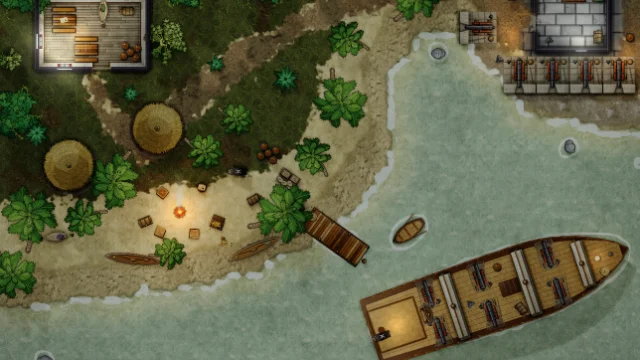
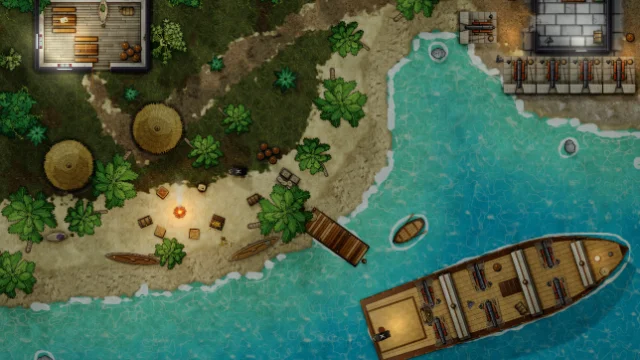
(visual) tropical water absorbs the seabed color and deepens over a longer ramp
water materials can set fundoEm (raso to fundo ramp up to 10 m, with the water bake window following) and absorcao
(a color multiplied over the ground before the bed); agua.tropical is now turquoise over sand and blue in the middle of a bay

diff --git a/src/procedural/materiais.ts b/src/procedural/materiais.ts
@@ -10,7 +10,7 @@ export type Padrao = 'tabuas' | 'xadrez' | 'damasco' | 'listras' | 'veio' | 'tra
 export interface Material {
   id: string; nome: string; /** Para onde o material vai: piso, papel de parede, objeto ou terreno. */ uso: 'piso' | 'papel' | 'objeto' | 'terreno' | 'macico' | 'agua' | 'telhado';
   base: string; escuro: string; claro: string; padrao: Padrao; /** Tapete: qual desenho (1 medalhão, 2 floral, 3 cercaduras, 4 kilim, 5 oval); ausente sorteia pela semente. */ desenho?: number; largura?: number; lado?: number; ouro?: string; borda?: string; meio?: string; /** Maciço: cor do topo (neve), onde a rocha passa de 70% da altura. */ topo?: string; /** Maciço e escarpa: quanto o pé da face escurece e quanto pesa a sombra de contato (0 a 1; ausente vale 1). */ pe?: number;
-  /** Água: cor perto da margem e no fundo, cor da espuma e quanto se enxerga o leito (0 a 1) no fundo. */ raso?: string; fundo?: string; espuma?: string; transparencia?: number; /** Água: rede de luz animada sobre o leito (cáusticas). */ causticas?: boolean; /** Água: quanto de espuma na margem e em volta dos objetos (0 a 1, padrão 1); água parada de gruta quase não tem. */ espumaForca?: number; /** Água: rebentação, cristas de onda brancas que correm para a margem (0 a 1; só o mar). */ ondas?: number;
+  /** Água: cor perto da margem e no fundo, cor da espuma e quanto se enxerga o leito (0 a 1) no fundo. */ raso?: string; fundo?: string; espuma?: string; transparencia?: number; /** Água: rede de luz animada sobre o leito (cáusticas). */ causticas?: boolean; /** Água clara: distância à margem (m) em que a cor chega a `fundo` e a água fica opaca (padrão 3; até `PROFUNDIDADE_DO_LEITO_MAXIMA`). */ fundoEm?: number; /** Água clara: cor que a água absorve do leito (multiplica o chão de baixo antes do tingido), como a areia que fica turquesa debaixo d'água. */ absorcao?: string; /** Água: quanto de espuma na margem e em volta dos objetos (0 a 1, padrão 1); água parada de gruta quase não tem. */ espumaForca?: number; /** Água: rebentação, cristas de onda brancas que correm para a margem (0 a 1; só o mar). */ ondas?: number;
   /** Água, maciço, piso ou papel que brilha: quanto emite acima da luz da cena (0 a 1). No maciço são os veios (`veio`); no piso e no papel, as partes claras do desenho (o néon). */ brilho?: number; /** Água: desenha lava (crosta com fendas acesas, sem ondas nem espuma). */ lava?: boolean; /** Maciço com `brilho`: a cor dos veios. */ veio?: string;
   /** Terreno: quanto a borda da camada se desfaz em manchas (0 a 1; ausente = borda comum). Chão batido e folhiço se misturam com o vizinho. */ franja?: number;
   /** Terreno (Ilustrado): textura CC0 puxada para a paleta; o `padrao` continua como reserva e é o que o Pixel usa. */ textura?: ReceitaDeTextura;
@@ -209,7 +209,8 @@ export const MATERIAIS: Readonly<Record<string, Material>> = Object.fromEntries(
   m('agua.gruta', 'Água de gruta', 'agua', '#2aa8a0', '#0c4a52', '#9af0e0', 'liso', { raso: '#58d0c0', fundo: '#106068', espuma: '#d8fff4', transparencia: 0.85, causticas: true, espumaForca: 0.12 }),
   m('agua.pantano', 'Pântano', 'agua', '#5a6a38', '#222a14', '#98a468', 'liso', { raso: '#7a8444', fundo: '#2c3418', espuma: '#c4c88c', transparencia: 0.2 }),
   m('agua.arrozal', 'Arrozal alagado', 'agua', '#6a7448', '#2e3420', '#9aa070', 'liso', { raso: '#8a8a58', fundo: '#4a5030', espuma: '#d4d4b0', transparencia: 0.35, espumaForca: 0.2 }),
-  m('agua.tropical', 'Água tropical', 'agua', '#3ab8b8', '#14607a', '#9af0e8', 'liso', { raso: '#5ad6c8', fundo: '#1a7894', espuma: '#f4fffc', transparencia: 0.62, causticas: true, ondas: 0.4 }),
+  // Água tropical: clara no raso (a areia aparece, turquesa, porque a água absorve o vermelho) e azul-turquesa funda a partir de uns 9 m da margem.
+  m('agua.tropical', 'Água tropical', 'agua', '#3ab8b8', '#14607a', '#9af0e8', 'liso', { raso: '#48d0c8', fundo: '#0e6a8e', espuma: '#f4fffc', transparencia: 0.1, causticas: true, ondas: 0.4, fundoEm: 9, absorcao: '#5ad8f0' }),
   m('agua.acida', 'Água ácida', 'agua', '#6ac83a', '#2a5a14', '#c8ff8a', 'liso', { raso: '#8ae04a', fundo: '#2e6a18', espuma: '#d8ff9a', transparencia: 0.3, espumaForca: 0.2, brilho: 0.35 }),
   m('agua.esgoto', 'Esgoto', 'agua', '#4e4c36', '#24231a', '#7a7656', 'liso', { raso: '#5e5a40', fundo: '#2a281c', espuma: '#8a8468', transparencia: 0.05, espumaForca: 0.12 }),
   m('agua.lava', 'Lava', 'agua', '#c8461a', '#2a1610', '#ffb050', 'liso', { raso: '#ff8a2a', fundo: '#b8300c', espuma: '#ffd27a', transparencia: 0, espumaForca: 0, brilho: 1, lava: true }),

diff --git a/src/procedural/agua.ts b/src/procedural/agua.ts
@@ -1,6 +1,6 @@
 import type { Material } from './materiais.ts';
 import { fbm, hash2D, valueNoise2D } from './ruido.ts';
-import { PROFUNDIDADE_MAXIMA, distanciaAMargem } from './profundidade.ts';
+import { PROFUNDIDADE_DO_LEITO_MAXIMA, PROFUNDIDADE_MAXIMA, distanciaAMargem } from './profundidade.ts';
 
 /** Largura (m) da faixa de areia molhada que escurece o chão em volta da água. */
 export const MARGEM_MOLHADA = 0.3;
@@ -31,6 +31,8 @@ export interface SaidaDaAgua {
   leito: Uint8ClampedArray;
   /** RGBA da faixa de areia molhada em volta da água. */
   margem: Uint8ClampedArray;
+  /** Só em água clara (`material.absorcao`, Ilustrado): RGBA que multiplica o chão de baixo antes do leito (a cor que a água tira dele). */
+  absorcao?: Uint8ClampedArray;
   /** Distância à margem em metros, saturada (0 fora da água). */
   profundidade: Float32Array;
   /** Só em água que brilha (`material.brilho`): quanto cada pixel emite (0 a 1); na lava, também no clarão em volta. */
@@ -108,6 +110,10 @@ export function leitoDaAgua(e: EntradaDaAgua): SaidaDaAgua {
   const { binaria, cobertura, largura: W, altura: H, res, pixel } = e, [ox, oy] = e.origemPx ?? [0, 0], n = W * H;
   const cores = coresDaAgua(e.material), profundidade = distanciaAMargem(binaria, W, H, res, PROFUNDIDADE_MAXIMA);
   if (e.material.lava) return leitoDeLava(e, profundidade);
+  // Água clara: a cor vai de raso a fundo numa rampa mais longa (`fundoEm`), e a água absorve do leito a cor de `absorcao`.
+  const fundoEm = Math.min(PROFUNDIDADE_DO_LEITO_MAXIMA, Math.max(PROFUNDIDADE_MAXIMA, e.material.fundoEm ?? PROFUNDIDADE_MAXIMA));
+  const rampa = fundoEm > PROFUNDIDADE_MAXIMA && !pixel ? distanciaAMargem(binaria, W, H, res, fundoEm) : profundidade;
+  const absorve = e.material.absorcao && !pixel ? rgb(e.material.absorcao) : null, absorcao = absorve ? new Uint8ClampedArray(n * 4) : undefined;
   const terra = new Uint8Array(n); for (let i = 0; i < n; i++) terra[i] = binaria[i] ? 0 : 1;
   const aFora = distanciaAMargem(terra, W, H, res, MARGEM_MOLHADA + 1 / res);
   const leito = new Uint8ClampedArray(n * 4), margem = new Uint8ClampedArray(n * 4), ruido = valueNoise2D(7000 + e.seed), ruidoFundo = valueNoise2D(7100 + e.seed);
@@ -121,7 +127,9 @@ export function leitoDaAgua(e: EntradaDaAgua): SaidaDaAgua {
         if (faixa === 0 && (((ox + x) + (oy + y)) & 1)) continue;                        // o raso é vazado em xadrez: o leito aparece por entre os pixels
         leito[k] = cores.raso[0] + (cores.fundo[0] - cores.raso[0]) * t; leito[k + 1] = cores.raso[1] + (cores.fundo[1] - cores.raso[1]) * t; leito[k + 2] = cores.raso[2] + (cores.fundo[2] - cores.raso[2]) * t; leito[k + 3] = 255;
       } else {
-        const t = suave(0, PROFUNDIDADE_MAXIMA, d), a = ((cobertura ? cobertura[i]! / 255 : 1)) * (0.14 + (opaco - 0.14) * t);
+        const dr = rampa === profundidade ? d : Math.max(0, rampa[i]! + (fbm(ruidoFundo, mx * 0.9, my * 0.9, 2) - 0.5) * 0.7 * (fundoEm / PROFUNDIDADE_MAXIMA));
+        const t = suave(0, fundoEm, dr), cob = cobertura ? cobertura[i]! / 255 : 1, a = cob * (0.14 + (opaco - 0.14) * t);
+        if (absorve && absorcao) { absorcao[k] = absorve[0]; absorcao[k + 1] = absorve[1]; absorcao[k + 2] = absorve[2]; absorcao[k + 3] = cob * 255; }
         leito[k] = cores.raso[0] + (cores.fundo[0] - cores.raso[0]) * t; leito[k + 1] = cores.raso[1] + (cores.fundo[1] - cores.raso[1]) * t; leito[k + 2] = cores.raso[2] + (cores.fundo[2] - cores.raso[2]) * t; leito[k + 3] = a * 255;
       }
     } else if (aFora[i]! > 0 && aFora[i]! <= MARGEM_MOLHADA + 1e-6) {
@@ -134,9 +142,9 @@ export function leitoDaAgua(e: EntradaDaAgua): SaidaDaAgua {
   if (e.material.brilho) {
     const calor = new Float32Array(n), forca = Math.min(1, Math.max(0, e.material.brilho));
     for (let i = 0; i < n; i++) if (binaria[i]) calor[i] = forca * (0.35 + 0.65 * suave(0, PROFUNDIDADE_MAXIMA, profundidade[i]!)) * (leito[i * 4 + 3]! / 255);
-    return { leito, margem, profundidade, calor };
+    return { leito, margem, profundidade, calor, ...(absorcao ? { absorcao } : {}) };
   }
-  return { leito, margem, profundidade };
+  return { leito, margem, profundidade, ...(absorcao ? { absorcao } : {}) };
 }
 
 /** Quantas camadas de água distintas a superfície sabe animar (cada uma com a sua correnteza). */

diff --git a/src/procedural/assar.ts b/src/procedural/assar.ts
@@ -29,7 +29,7 @@ import { orientacaoDominante } from './orientacao.ts';
 import { descreverReceita, receitaDe } from './receitas/index.ts';
 import { fatorDeProfundidade } from '../domain/relevo.ts';
 import { ladoBaixo } from './escarpa.ts';
-import { PROFUNDIDADE_MAXIMA, distanciaAMargem } from './profundidade.ts';
+import { PROFUNDIDADE_DO_LEITO_MAXIMA, PROFUNDIDADE_MAXIMA, distanciaAMargem } from './profundidade.ts';
 
 export interface Assado {
   tela: Tela;
@@ -223,7 +223,7 @@ export const MARGEM_ASSENTAMENTO = 2;
 /** Margens (m) das camadas de terreno por uso do material, compartilhadas entre `ladrilhosDoTerreno` e `assarTerreno`. */
 export function margensDoTerreno(res: number): { base: number; agua: number; macico: number } {
   const base = Math.max(1.5, RAIO_PASSA_ALTA, 1 / Math.max(1e-6, res)) + 1;
-  const agua = base + PROFUNDIDADE_MAXIMA;
+  const agua = base + Math.max(PROFUNDIDADE_MAXIMA, PROFUNDIDADE_DO_LEITO_MAXIMA);
   const macico = Math.max(base + Math.max(PROFUNDIDADE_MAXIMA, SOMBRA_DE_CONTATO + 0.15), 10);
   return { base, agua, macico };
 }
@@ -523,7 +523,10 @@ export function assarTerreno(e: EntradaDeTerreno, res: number, estilo: EstiloDeR
       // Água: o que está embaixo continua à vista e ganha a cor do leito pela profundidade; a margem é uma faixa de areia molhada.
       const r = leitoDaAgua({ binaria, cobertura: pixel ? null : cobertura, largura: cw, altura: ch, res, seed: 13 + idx * 5, material, pixel, origemPx: [x0, y0] });
       const poe = (dados: Uint8ClampedArray) => { const t = criarTela(cw, ch), c = contextoDe(t); c.putImageData(new ImageData(dados as Uint8ClampedArray<ArrayBuffer>, cw, ch), 0, 0); ctx.drawImage(t as CanvasImageSource, dx, dy); };
-      ctx.setTransform(1, 0, 0, 1, 0, 0); poe(r.margem); poe(r.leito); resetTransform(ctx);
+      ctx.setTransform(1, 0, 0, 1, 0, 0); poe(r.margem);
+      // Água clara: primeiro a absorção multiplica o chão de baixo (a areia fica turquesa, não cinza), depois o leito tinge por cima.
+      if (r.absorcao) { const antes = ctx.globalCompositeOperation; ctx.globalCompositeOperation = 'multiply'; poe(r.absorcao); ctx.globalCompositeOperation = antes; }
+      poe(r.leito); resetTransform(ctx);
       if (actx) {
         const aguaAlt = new Uint8ClampedArray(cw * ch * 4);
         const pisoByte = Math.round(PISO_NO_MAPA * 255);

diff --git a/tests/unit/agua.test.ts b/tests/unit/agua.test.ts
@@ -156,3 +156,16 @@ test('água que baixa: a primeira etapa é a mais distante do centro e a união 
   const chave = (e: readonly (readonly [number, number])[][]) => new Set(e.flat().map(c => c.join(',')));
   assert.deepEqual(chave(baixa), chave(sobe));
 });
+
+test('água tropical: absorve a cor do leito no raso e só fica opaca longe da margem (rampa longa); o lago não muda', () => {
+  const RES2 = 2, lado = 24, margem = 2, W = (lado + 2 * margem) * RES2, binaria = new Uint8Array(W * W);
+  for (let y = 0; y < W; y++) for (let x = 0; x < W; x++) binaria[y * W + x] = x >= margem * RES2 && x < (margem + lado) * RES2 && y >= margem * RES2 && y < (margem + lado) * RES2 ? 1 : 0;
+  const entrada = (id: string, pixel = false) => leitoDaAgua({ binaria, cobertura: pixel ? null : binaria.map(v => v * 255), largura: W, altura: W, res: RES2, seed: 1, material: materialDe(id), pixel });
+  const tropical = entrada('agua.tropical'), alfa = (s: ReturnType<typeof entrada>, xm: number) => s.leito[((W / 2) * W + Math.round(xm * RES2)) * 4 + 3]!;
+  assert.ok(tropical.absorcao, 'a tropical devolve a camada de absorção');
+  assert.ok(tropical.absorcao![((W / 2) * W + (margem + 1) * RES2) * 4 + 3]! > 200, 'a absorção cobre a água inteira');
+  // A 4 m da margem ainda se vê o leito; no meio (12 m) a água já é quase opaca.
+  assert.ok(alfa(tropical, margem + 4) < alfa(tropical, margem + 12) - 80, `${alfa(tropical, margem + 4)} × ${alfa(tropical, margem + 12)}`);
+  assert.equal(entrada('agua.lago').absorcao, undefined);
+  assert.equal(entrada('agua.tropical', true).absorcao, undefined, 'o Pixel não multiplica');
+});

diff --git a/src/procedural/profundidade.ts b/src/procedural/profundidade.ts
@@ -1,5 +1,7 @@
 /** Profundidade máxima (m) guardada pela transformada de distância; mais fundo que isso é "fundo". */
 export const PROFUNDIDADE_MAXIMA = 3;
+/** Até onde (m) a cor do leito pode ir de `raso` a `fundo` num material com `fundoEm` (água clara, de rampa longa); a janela do assar cresce junto, para não haver emenda entre ladrilhos. */
+export const PROFUNDIDADE_DO_LEITO_MAXIMA = 10;
 
 /**
  * Distância à margem, em metros, de cada pixel de uma máscara binária (`1` = dentro, `0` = fora), por transformada de distância

diff --git a/docs/plano/epocas-e-cenarios.md b/docs/plano/epocas-e-cenarios.md
@@ -385,7 +385,7 @@ Depende de: Q11, Q13 (coqueiros).
 - ✅ **Q19c — gênero (Sonnet):** tipos `conves` (sem telhado), `cabine-do-capitao`, `porao`, `taverna-do-porto`, `fortim`, `casa-colonial`; conjuntos `enseada` e `tesouro-espalhado`; palavras: convés, cabine, porão, forte, enseada. Commit: `added colonial and pirate genre with rooms and furnishing`
   Nota: cinco tipos novos em `TIPOS_DE_COMODO` (`conves`, `cabine-do-capitao`, `taverna-do-porto`, `fortim`, `casa-colonial`, id igual à função); o `porao` já existia e o gênero só troca o que ele guarda (barris de rum, fardos de açúcar; `VARIACOES_DE_GENERO.colonial` também dá rede de dormir ao quarto, mesa de cartógrafo ao escritório, botica à loja, fardos ao depósito). `conves` e `fortim` entram em `FUNCOES_AO_AR_LIVRE` (nascem sem telhado) e não têm luz interna (`semLuz`); a cabine, a taverna do porto e a casa colonial usam lamparina/vela do gênero, e a mesa de cartógrafo e o oratório já trazem a vela deles. Regras: convés (timão e canhões navais na parede, base do mastro ao centro, barris, rolos de corda, bandeira, luneta e rede nos maiores), cabine (mesa de cartógrafo ao centro com cadeira, baú de tesouro, mapa e luneta sobre a mesa, rede ou cama, estante, globo, moedas), taverna do porto (balcão, barris de rum, mesas de taverna com bancos), fortim (canhões de forte na parede, balas, barris, sino, bandeira, forca só a partir de 36 m²), casa colonial (oratório, mesa com cadeiras, rede, botica a partir de 18 m², baú, aparador). Materiais próprios do gênero (`COLONIAL_POR_FUNCAO`: tábuas de convés, caiado, tijoleira, cantaria no fortim) e três paletas; telhado padrão do gênero é o estilo `casa-colonial` (telha de barro) que já existia. Palavras: `convés`, `fortim`/`fortaleza`/`baluarte` em `POR_NOME`; "cabine" (só nome inteiro ou "cabine do capitão"/"camarote do capitão"), "forte" (só nome inteiro ou "forte de/do/São…"), "taverna do porto/cais/pirata" e "casa colonial/grande" em `FRASES`, para "sala forte", "cofre forte" ou "cabine de teste" não virarem fortim ou cabine. "Porão" já existia. "Enseada" não é cômodo, é exterior: fica só como conjunto `enseada` (e `tesouro-espalhado`), sem palavra de nome. Conjuntos em `CONJUNTOS_EXTERIORES` (agora 18 exteriores, 24 no total). Catálogo da ponte regenerado.
 - ✅ **Q19d — exemplo [Opus]:** "Enseada dos piratas" — navio fundeado, praia de coqueiros e fortim, com água tropical.
-  Nota: `scripts/exemplos/enseada-dos-piratas.ts` (52 × 36 m, 90 objetos, 7 luzes, 2 cômodos), na galeria com miniatura; capturas em `test-results/q19d-dia.png` e `q19d-noite.png` (clima guardado "Noite do saque"). A baía de `agua.tropical` abre para o sudeste, com o `navio` de 22 m e três mastros fundeado no meio; no convés, seis canhões navais nas bordas apontando para fora, o timão diante do castelo de popa, a bandeira na popa, barris e o rolo de corda (o navio antigo deixa o convés livre entre as velas, então o kit cabe em cima dele). Na praia de coqueiros, o acampamento: duas cabanas de palha, a fogueira, o baú aberto com as moedas, outro baú fechado, o mapa sobre um barril, o barril de rum, a bandeira, a rede, as canoas puxadas na areia e os fardos de açúcar; o cais de tábuas com o sino e o bote a caminho da praia. A noroeste, na mata, a taverna do porto; no promontório a nordeste, o fortim tomado (`fortim`), com a bateria de quatro canhões de forte virada para a baía, um no flanco virado para a enseada, o sino, a bandeira e a forca na trilha. Desvios: (1) os telhados estão ocultos, como nos outros exemplos; (2) o convés é o do `navio` antigo, com os objetos do kit por cima, e não um cômodo `conves` (o navio já desenha casco, castelo de popa e velas); (3) o fortim é um cômodo fechado de pedra com a bateria do lado de fora, na borda do promontório. Limite (motor): a `agua.tropical` sai verde-acinzentada, não turquesa: o material tem transparência 0,62 e deixa ver a areia da base sob a luz do dia, e não há profundidade que escureça o meio da baía. O tom certo pede mexer no material ou dar à água uma profundidade pela distância da costa.
+  Nota: `scripts/exemplos/enseada-dos-piratas.ts` (52 × 36 m, 90 objetos, 7 luzes, 2 cômodos), na galeria com miniatura; capturas em `test-results/q19d-dia.png` e `q19d-noite.png` (clima guardado "Noite do saque"). A baía de `agua.tropical` abre para o sudeste, com o `navio` de 22 m e três mastros fundeado no meio; no convés, seis canhões navais nas bordas apontando para fora, o timão diante do castelo de popa, a bandeira na popa, barris e o rolo de corda (o navio antigo deixa o convés livre entre as velas, então o kit cabe em cima dele). Na praia de coqueiros, o acampamento: duas cabanas de palha, a fogueira, o baú aberto com as moedas, outro baú fechado, o mapa sobre um barril, o barril de rum, a bandeira, a rede, as canoas puxadas na areia e os fardos de açúcar; o cais de tábuas com o sino e o bote a caminho da praia. A noroeste, na mata, a taverna do porto; no promontório a nordeste, o fortim tomado (`fortim`), com a bateria de quatro canhões de forte virada para a baía, um no flanco virado para a enseada, o sino, a bandeira e a forca na trilha. Desvios: (1) os telhados estão ocultos, como nos outros exemplos; (2) o convés é o do `navio` antigo, com os objetos do kit por cima, e não um cômodo `conves` (o navio já desenha casco, castelo de popa e velas); (3) o fortim é um cômodo fechado de pedra com a bateria do lado de fora, na borda do promontório. A `agua.tropical` saía verde-acinzentada (o leito, 38% opaco em mistura normal sobre a areia, e a rampa de cor saturada em 3 m); corrigido no motor logo depois: o material de água ganhou `fundoEm` (a rampa de raso a fundo vai até 9 m da margem, com a janela do assar da água crescendo para `PROFUNDIDADE_DO_LEITO_MAXIMA` = 10 m, sem emenda entre ladrilhos) e `absorcao` (uma cor que multiplica o chão antes do leito, no Ilustrado: a areia fica turquesa no raso e a baía azul no fundo). Capturas: `test-results/agua-tropical-dia.png` e `-noite.png`.
 
 ### Q20 — Vitoriano e steampunk (`vitoriano`)  ⬜
 Depende de: Q4 (faísca e caldeira), Q11.

diff --git a/progress.md b/progress.md
@@ -745,3 +745,4 @@ A Fase 9 está concluída. A Fase 6 está concluída, menos a 6.2b (importar os 
 - **Q19b (2026-11-21):** kit colonial, colônia e praia: canoa escavada, cabana de palha (telhado cônico de palha de coqueiro), sino de cais, mesa de cartógrafo (com vela), botica, oratório (com velas), pelourinho colonial de cantaria, fardos de açúcar e canhão de forte com o trecho de muralha e a canhoneira. Prancha em `test-results/q19b-prancha.png`.
 - **Q19c (2026-11-21):** gênero colonial e pirata: tipos `conves` e `fortim` (ao ar livre, sem luz interna), `cabine-do-capitao`, `taverna-do-porto` e `casa-colonial`, com regras de mobília, luz, materiais e paletas próprios (o `porao` existente guarda barris de rum e fardos de açúcar pelo gênero), telhado padrão `casa-colonial`, palavras (convés, fortim/fortaleza e, em frase, cabine, forte, taverna do porto, casa colonial) e os conjuntos `enseada` e `tesouro-espalhado`; catálogo da ponte regenerado. Testes em `tests/unit/genero-colonial.test.ts`.
 - **Q19d (2026-11-21):** mapa de exemplo "Enseada dos piratas" (`scripts/exemplos/enseada-dos-piratas.ts`, 52 × 36 m) fecha a época colonial e pirata: baía de água tropical com o navio fundeado e armado, praia de coqueiros com o acampamento e o tesouro, cais com sino, taverna do porto na mata e o fortim no promontório com a bateria de canhões e a forca, à tarde, com a "Noite do saque" guardada. Limite: a água tropical sai verde-acinzentada (transparência do material sobre a areia).
+- **Água tropical (2026-11-21):** o material de água ganhou `fundoEm` (rampa de raso a fundo mais longa que 3 m, até 10 m, com a janela do assar da água acompanhando) e `absorcao` (cor que multiplica o chão de baixo antes do leito); a `agua.tropical` usa os dois e passou de verde-acinzentada a turquesa no raso e azul no fundo. O Pixel não muda.
